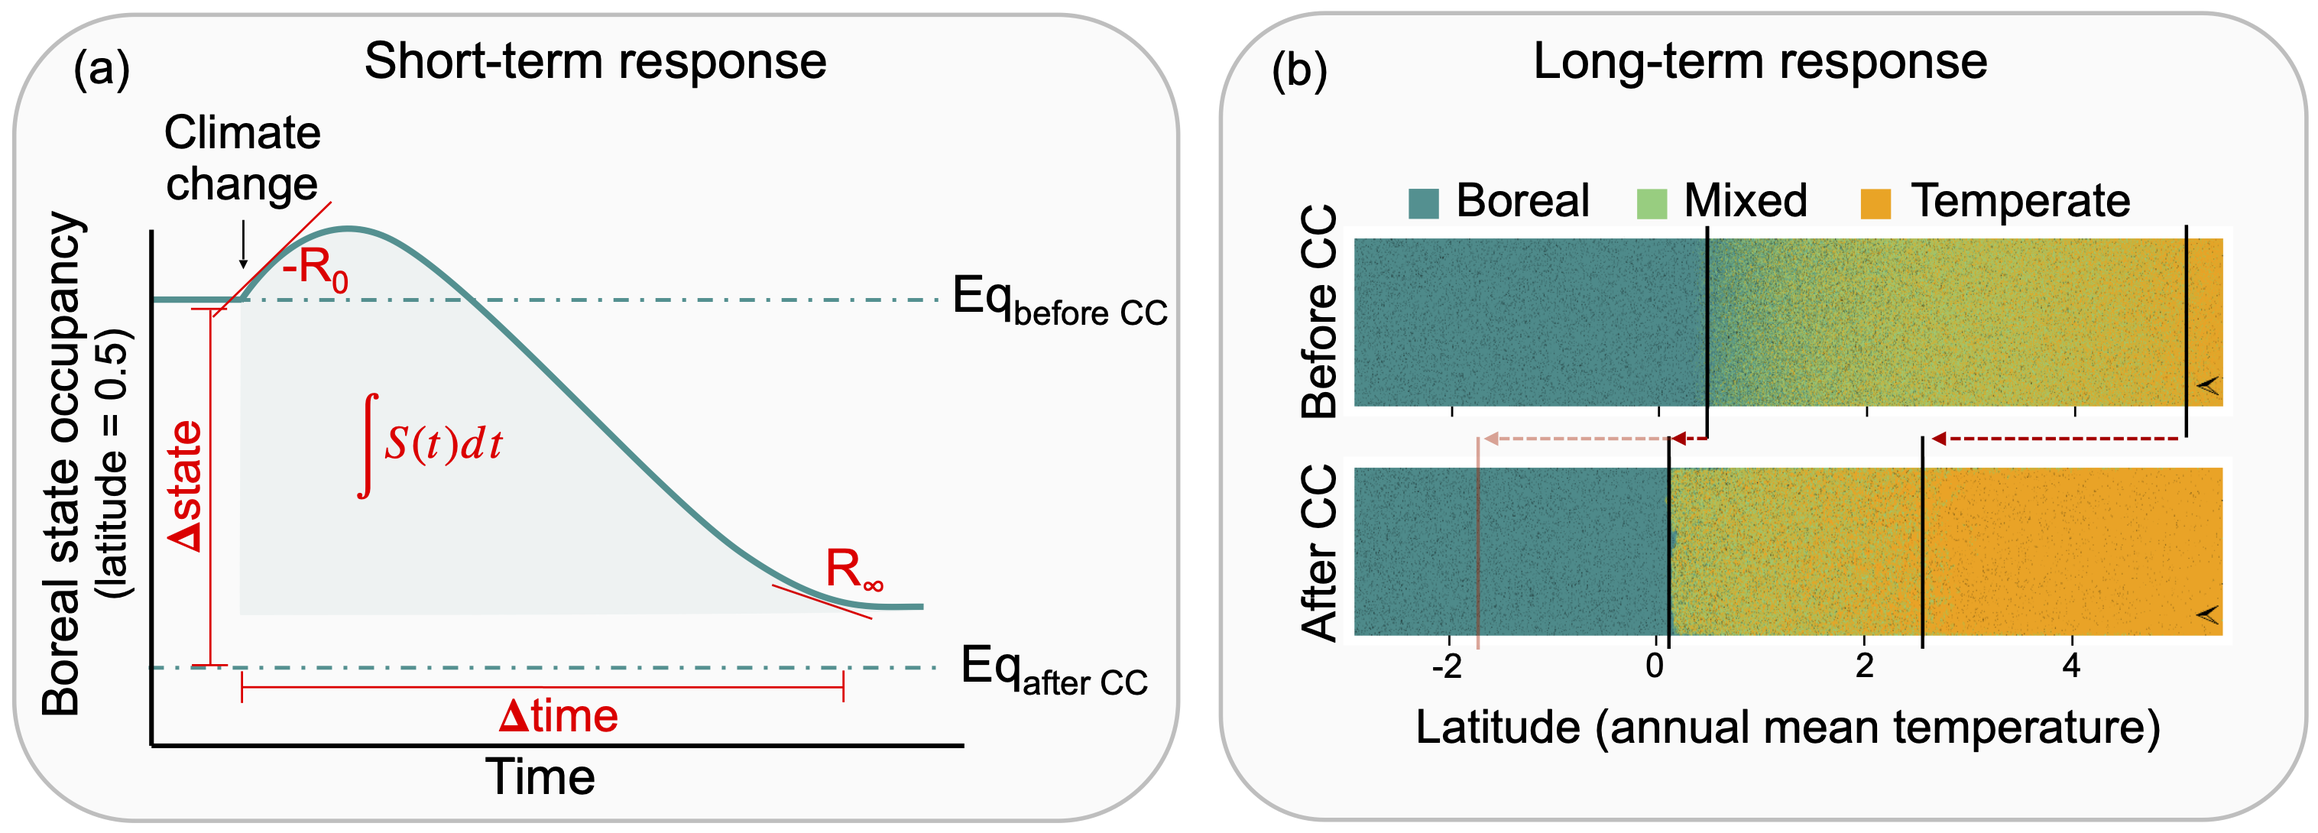
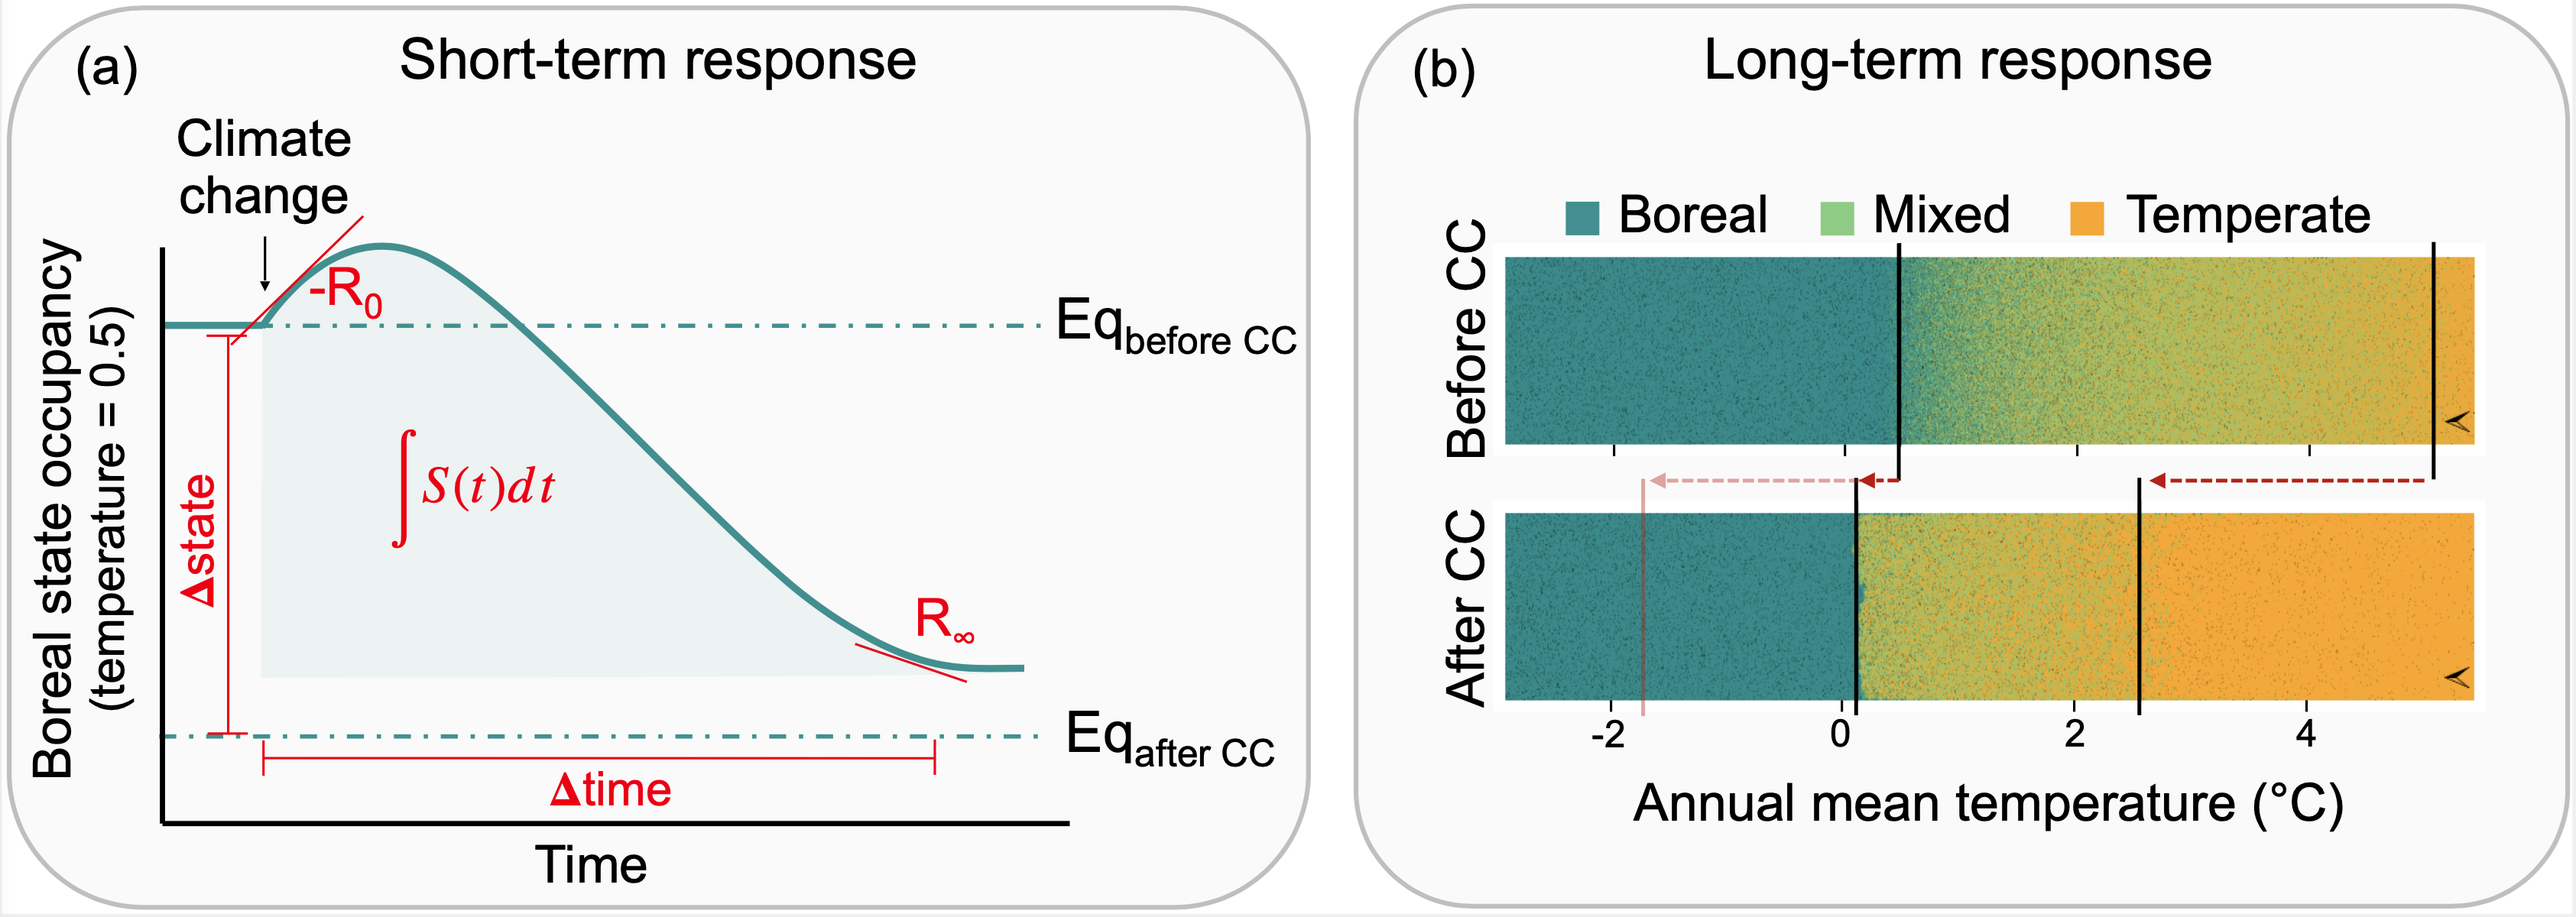
adj figure axis, labels and colors

diff --git a/manuscript/suppInfo.md b/manuscript/suppInfo.md
@@ -1,16 +1,14 @@
 \newpage
 
-# Supporting figures
-
 ## Figure S1
 
-![Sensitivity analysis of the effect of cell size on dispersal rate for different management practices. For each cell size ranging from 0.1 to 5 km$^2$, we warmed temperature with RCP4.5 increasing linearly for the first 100 years, and let the model run for a total of 1000 years. We specified the range limit of a forest state within the landscape grid when the occupancy of the state was less than 85%. The mean migration rate of a simulation is therefore defined as the distance the range limit of a forest state travelled, divided by the total amount of time. Note that the values of migration rate are may not be realistic, as they are dependent on the size of the theoretical landscape lattice, but are enough to compare between the different cell sizes. More information about this analysis can be found here: <https://github.com/willvieira/STManaged/issues/1>](https://user-images.githubusercontent.com/20832638/58586171-78e3ab80-8228-11e9-9fa5-ec8354eae439.png){#fig:sim-result-supp1}
+![Sensitivity analysis of the effect of cell size on dispersal rate for different management practices. For each cell size ranging from 0.1 to 5 km$^2$, we warmed temperature with RCP4.5 increasing linearly for the first 100 years, and let the model run for a total of 1000 years. We specified the range limit of a forest state within the landscape grid when the occupancy of the state was less than 85%. The mean migration rate of a simulation is therefore defined as the distance the range limit of a forest state travelled, divided by the total amount of time. Note that the values of migration rate are may not be realistic, as they are dependent on the size of the theoretical landscape lattice, but are enough to compare between the different cell sizes. More information about this analysis can be found here: <https://github.com/willvieira/STManaged/issues/1>](https://user-images.githubusercontent.com/20832638/58586171-78e3ab80-8228-11e9-9fa5-ec8354eae439.png){#fig:sim-result-supp1 width=65%}
 
 \newpage
 
-# Figure S2
+## Figure S2
 
-![Transient dynamics following warming temperature along with the increasing management intensity for plantation, harvest, thinning and enrichment planting. Climatic condition is fixed at the boreal (annual mean temperature of -1; left panels) and the boreal/mixed transition (annual mean temperature of 0; right panels) regions. Transient dynamics are described by (i) exposure or the shift of forest states to the new equilibrium; (ii) asymptotic resilience or the rate in which the system recovery to equilibrium; (iii) sensitivity or the time for the state reach equilibrium after warming temperature; (iv) initial resilience or the reactivity of the system after warming temperature; and (v) vulnerability or the cumulative amount of state changes after warming temperature.](manuscript/img/num-result_supp1.png){#fig:sim-result-supp2 width=58%}
+![Transient dynamics following warming temperature along with the increasing management intensity for plantation, harvest, thinning and enrichment planting. Climatic condition is fixed at the boreal (annual mean temperature of -1; left panels) and the boreal/mixed transition (annual mean temperature of 0; right panels) regions. Transient dynamics are described by (i) exposure or the shift of forest states to the new equilibrium; (ii) asymptotic resilience or the rate in which the system recovery to equilibrium; (iii) sensitivity or the time for the state reach equilibrium after warming temperature; (iv) initial resilience or the reactivity of the system after warming temperature; and (v) vulnerability or the cumulative amount of state changes after warming temperature.](manuscript/img/num-result_supp1.png){#fig:sim-result-supp2}
 
 \newpage
 
